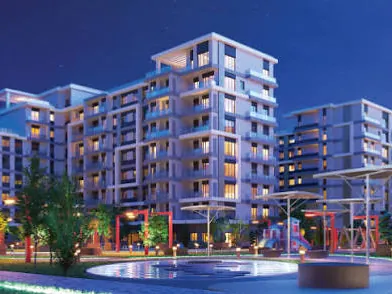
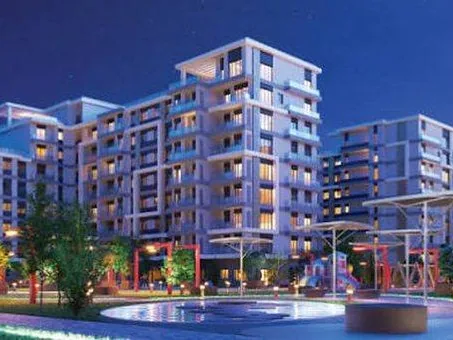
reviews: show full video frame instead of cropping faces

diff --git a/app/components/Reviews.tsx b/app/components/Reviews.tsx
@@ -21,7 +21,13 @@ const container: Variants = {
   show: { transition: { staggerChildren: 0.06 } },
 };
 
-const YT_THUMB = (id: string) => `https://i.ytimg.com/vi/${id}/hqdefault.jpg`;
+/* hqdefault is 480×360 — a 4:3 canvas with the 16:9 frame letterboxed inside.
+   Dropped into a 16:9 card with object-cover it gets scaled up until the black
+   bars are gone, and that overscan is what cuts people's foreheads off.
+   maxresdefault is the true 16:9 frame: it fills the card with nothing cropped.
+   It only exists for HD uploads, so the <Image> below falls back on error. */
+const YT_THUMB = (id: string) => `https://i.ytimg.com/vi/${id}/maxresdefault.jpg`;
+const YT_THUMB_FALLBACK = (id: string) => `https://i.ytimg.com/vi/${id}/hqdefault.jpg`;
 const YT_EMBED = (id: string) =>
   `https://www.youtube.com/embed/${id}?autoplay=1&rel=0&modestbranding=1`;
 
@@ -90,13 +96,33 @@ export default function Reviews() {
                 className="relative aspect-video w-full overflow-hidden"
                 aria-label={`${t("reviews.watch")} — ${r.name}`}
               >
+                {/* Blurred copy fills the card, the sharp frame sits on top
+                    uncropped — so a portrait or 4:3 clip keeps the whole head
+                    in shot instead of being overscanned to fit 16:9. */}
+                <Image
+                  src={YT_THUMB(r.id)}
+                  alt=""
+                  aria-hidden
+                  fill
+                  sizes="(max-width: 640px) 100vw, (max-width: 1024px) 50vw, 25vw"
+                  className="scale-110 object-cover blur-xl saturate-125"
+                  unoptimized
+                  onError={(e) => {
+                    const img = e.currentTarget;
+                    if (!img.src.endsWith("hqdefault.jpg")) img.src = YT_THUMB_FALLBACK(r.id);
+                  }}
+                />
                 <Image
                   src={YT_THUMB(r.id)}
                   alt={r.caption}
                   fill
                   sizes="(max-width: 640px) 100vw, (max-width: 1024px) 50vw, 25vw"
-                  className="object-cover transition-transform duration-500 group-hover:scale-105"
+                  className="object-contain transition-transform duration-500 group-hover:scale-105"
                   unoptimized
+                  onError={(e) => {
+                    const img = e.currentTarget;
+                    if (!img.src.endsWith("hqdefault.jpg")) img.src = YT_THUMB_FALLBACK(r.id);
+                  }}
                 />
                 <span className="absolute inset-0 bg-bwt-navy/10 transition-colors group-hover:bg-bwt-navy/0" />
                 <span className="absolute left-1/2 top-1/2 flex h-14 w-14 -translate-x-1/2 -translate-y-1/2 items-center justify-center rounded-full bg-bwt-gold text-bwt-navy-dark shadow-lg transition-transform duration-300 group-hover:scale-110">
